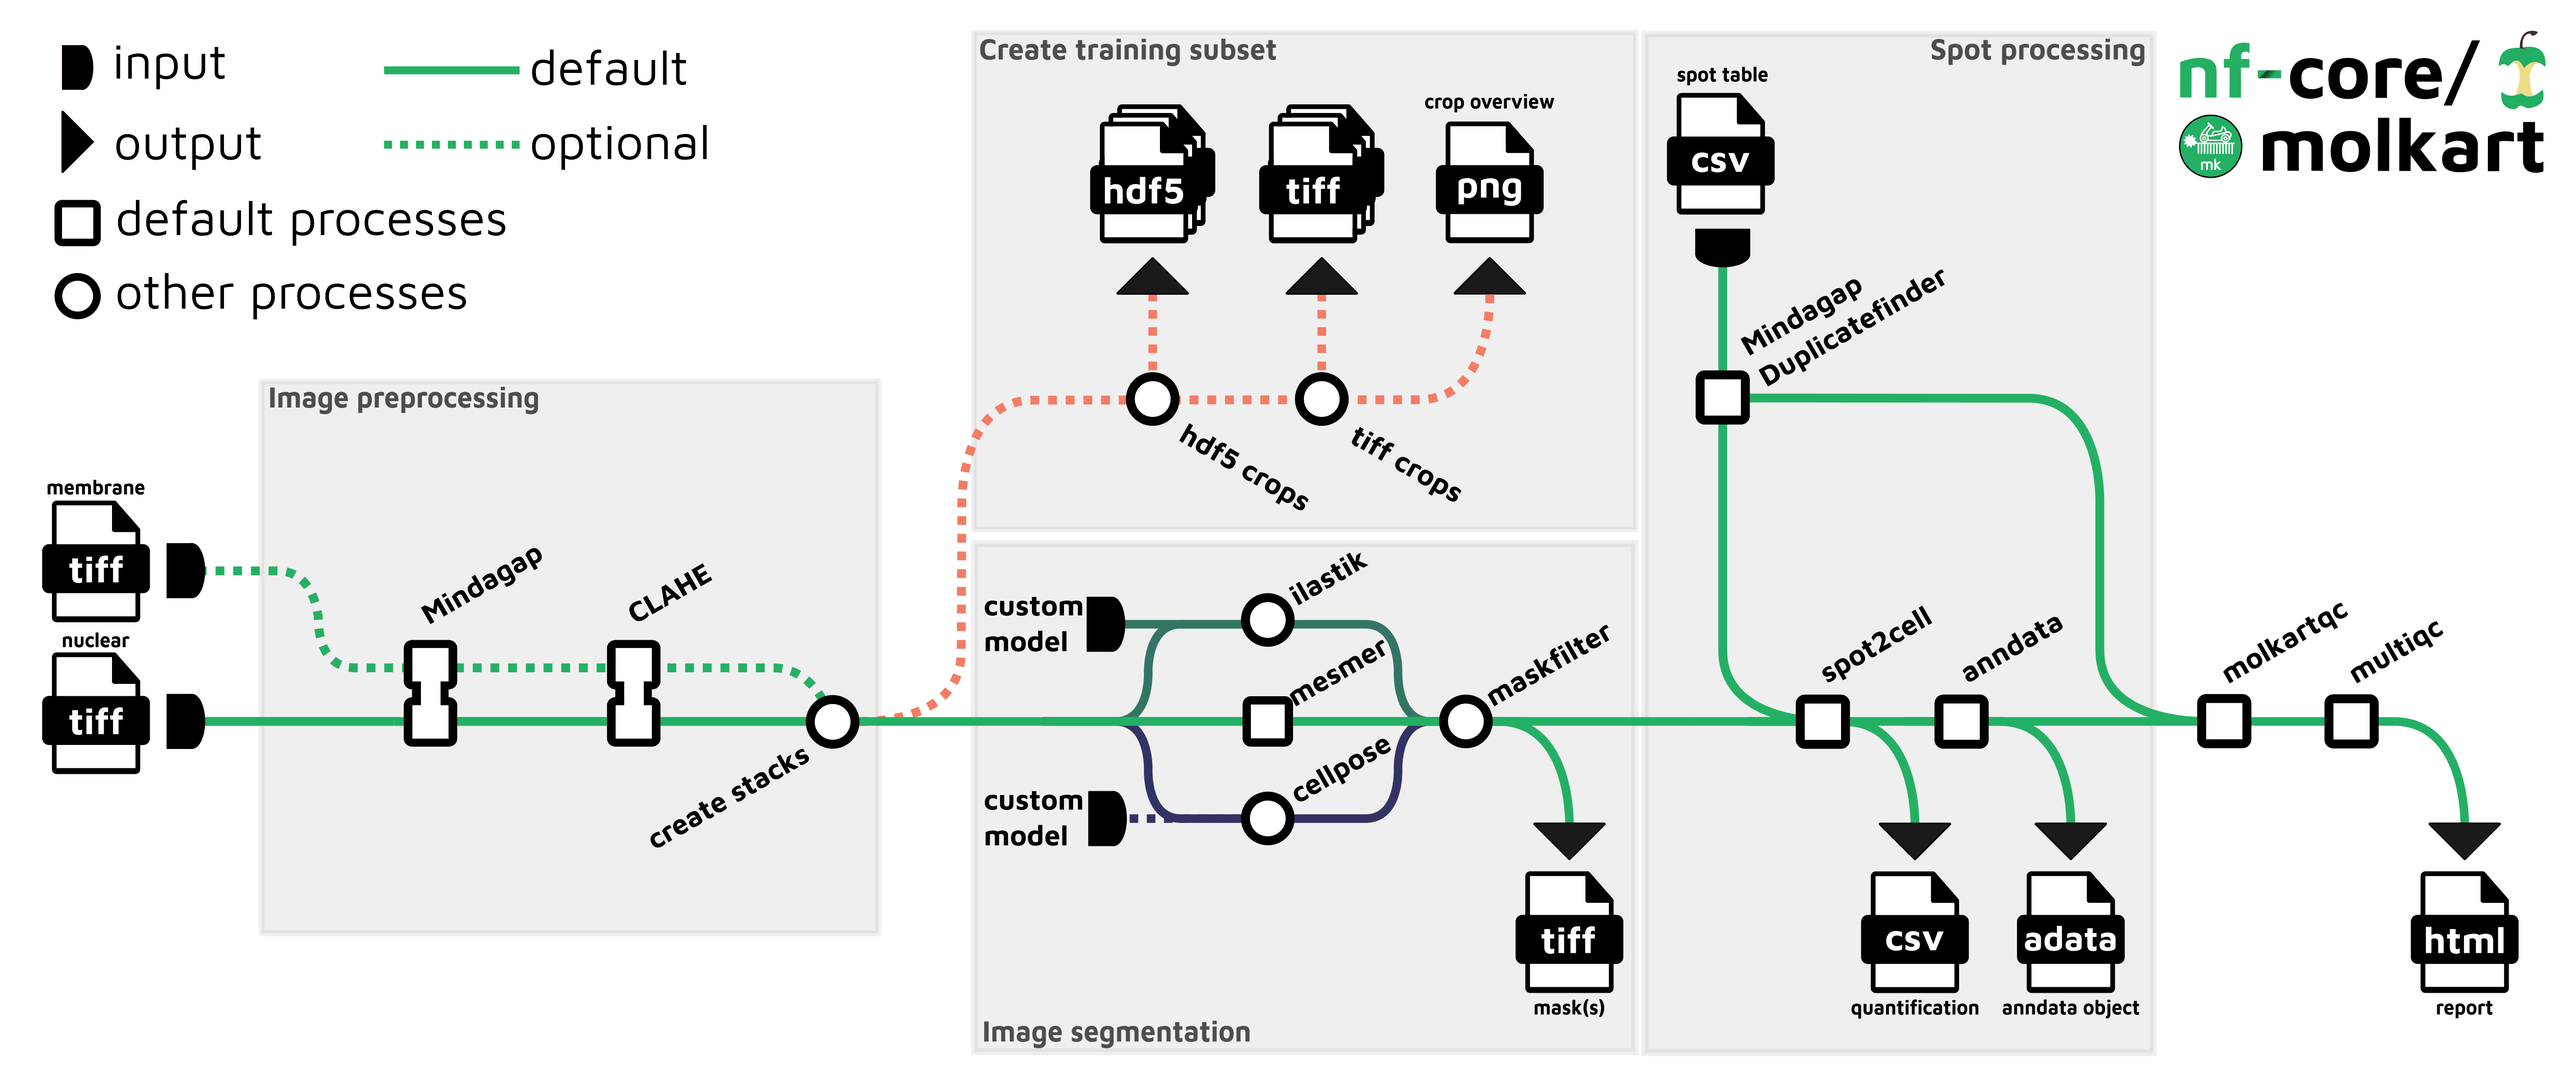
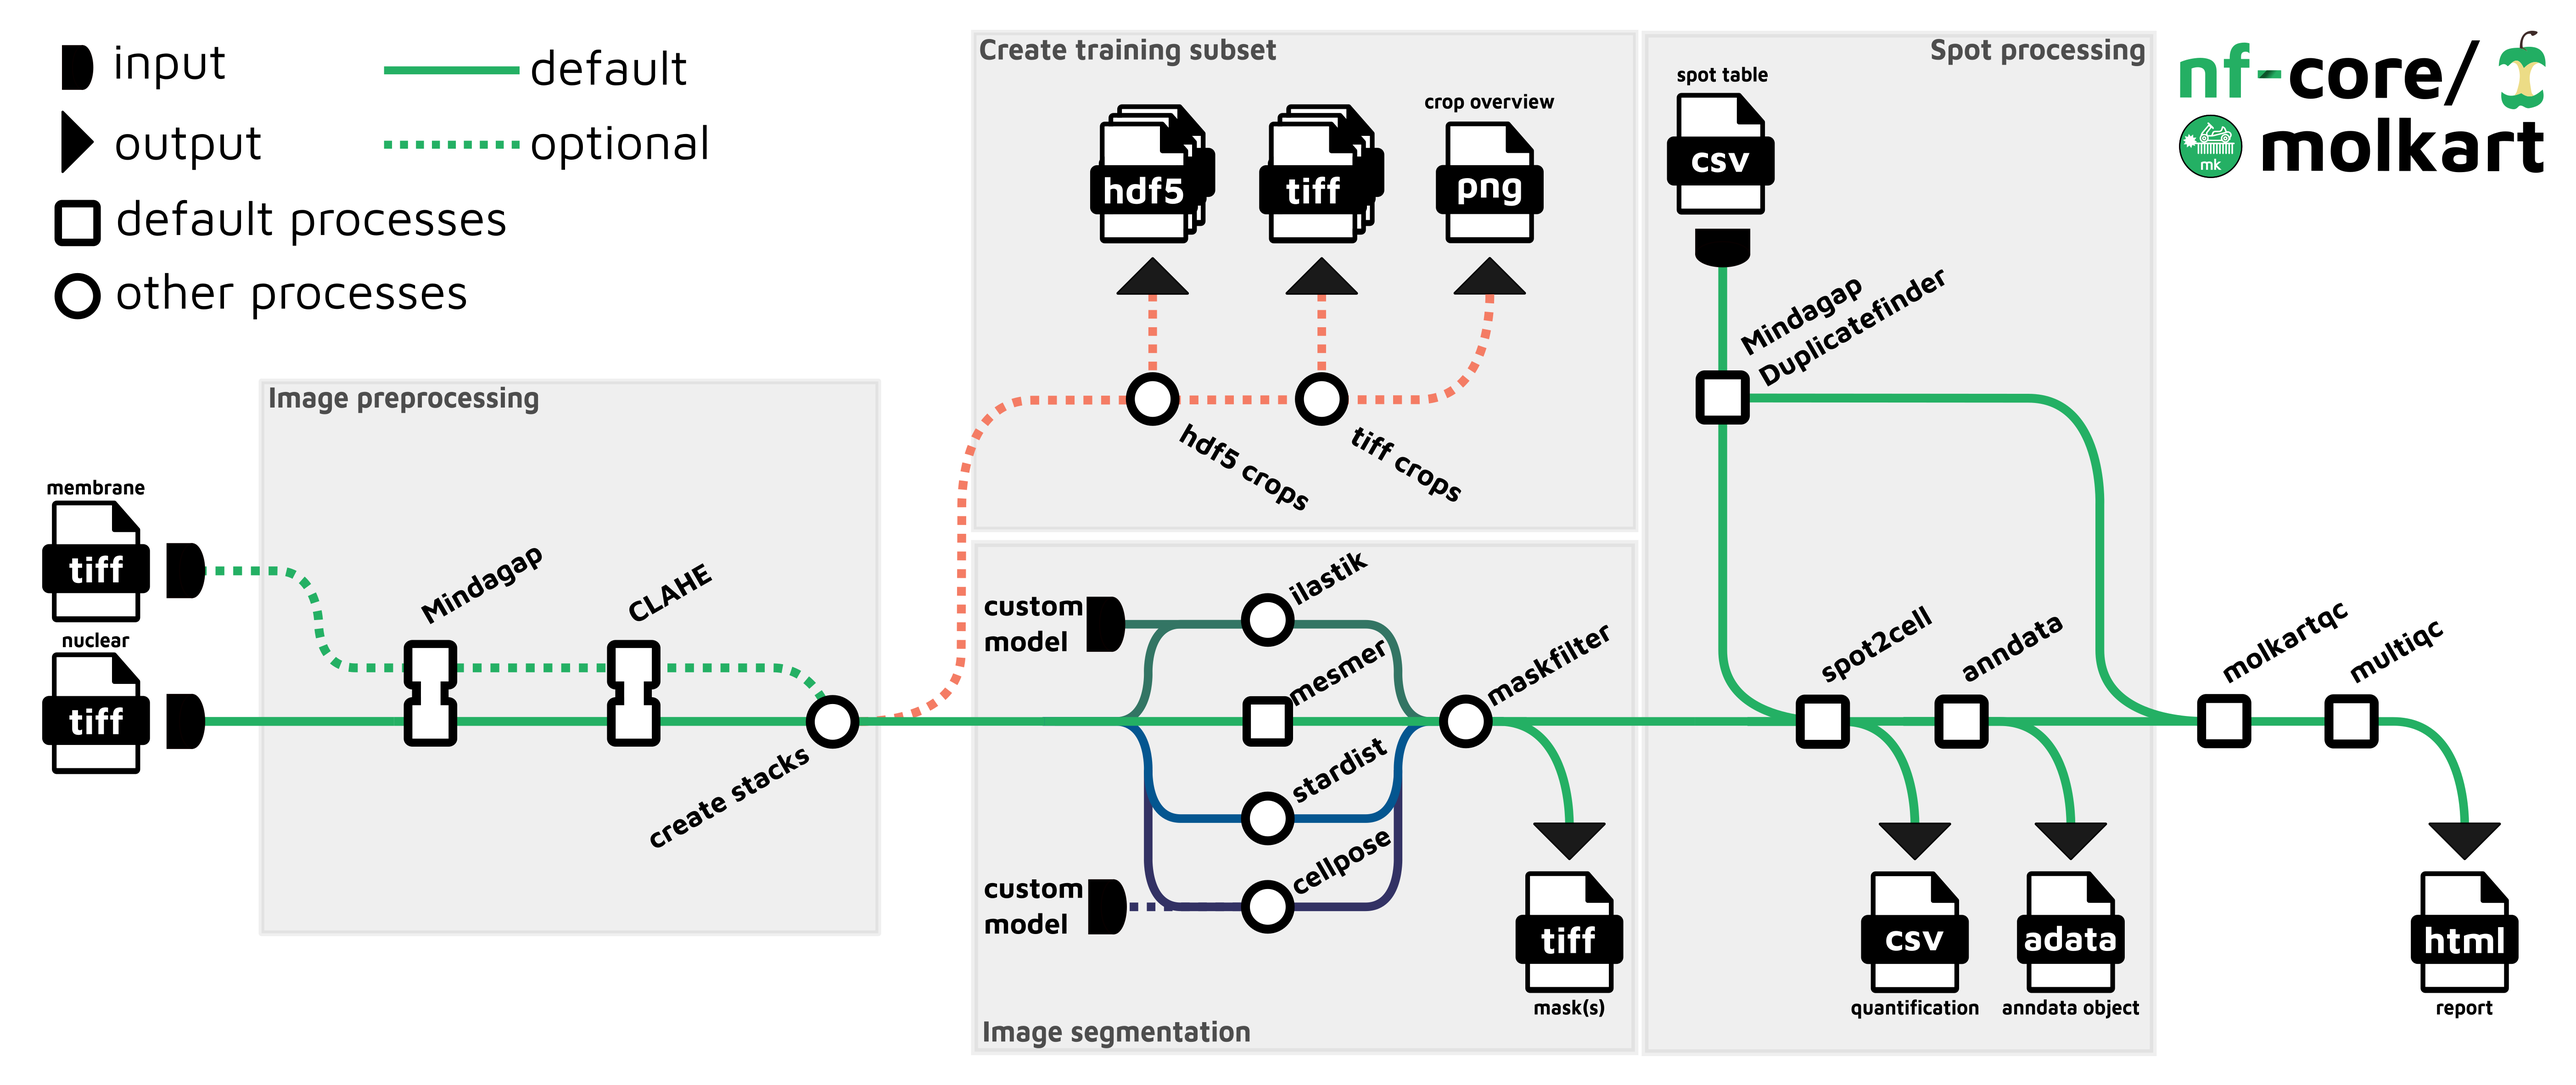
documentation

Changed region(s): [[0.3742, 0.6794, 0.5613, 0.8646]]

diff --git a/docs/usage.md b/docs/usage.md
@@ -28,12 +28,12 @@ SAMPLE3,SAMPLE3.nucleus.tiff,SAMPLE3.spots.txt,SAMPLE3.membrane.tiff
 SAMPLE4,SAMPLE4.nucleus.tiff,SAMPLE4.spots.txt,SAMPLE4.membrane.tiff
 ```
 
-| Column           | Description                                                                                                                                                  |
-| ---------------- | ------------------------------------------------------------------------------------------------------------------------------------------------------------ |
-| `sample`         | Custom sample name. If multiple field-of-views (FOVs) are being processed for the same sample, their sample tags must be different. Must not contain spaces. |
-| `nuclear_image`  | Full path to nuclear image (DAPI, Hoechst).                                                                                                                  |
-| `spot_table`     | Full path to tsv or txt spot table provided by Resolve. Separator must be `\t`.                                                                              |
-| `membrane_image` | Full path to membrane image (e.g WGA) or second channel to help with segmentation (optional).                                                                |
+| Column           | Description                                                                                                                                                                        |
+| ---------------- | ---------------------------------------------------------------------------------------------------------------------------------------------------------------------------------- |
+| `sample`         | Custom sample name. If multiple field-of-views (FOVs) are being processed for the same sample, their sample tags must be different. Must not contain spaces.                       |
+| `nuclear_image`  | Full path to the nuclear stain image (DAPI, Hoechst). Must be in **TIFF** format (`.tiff` or `.tif`).                                                                              |
+| `spot_table`     | Full path to the **spot table** (`.tsv` or `.txt`). The table must contain **x, y, z position columns and a gene column**, with **no header** and **tab-separated values (`\t`)**. |
+| `membrane_image` | Full path to the membrane stain image (e.g., WGA) or a second channel to assist with segmentation. Must be in **TIFF** format (`.tiff` or `.tif`). _(Optional)_                    |
 
 An [example samplesheet](../assets/samplesheet.csv) has been provided with the pipeline.
 
@@ -73,14 +73,14 @@ with:
 
 ```yaml
 input: "./samplesheet.csv"
-outdir: "./results/"
+outdir: "./results"
 ```
 
 Additionally, `params.yaml` can contain optional parameters:
 
 ```yaml
 input: "./samplesheet.csv"
-outdir: "./results/"
+outdir: "./results"
 segmentation_method: "mesmer"
 segmentation_min_area: null
 segmentation_max_area: null
@@ -99,6 +99,7 @@ mesmer_image_mpp: 0.138
 mesmer_compartment: "whole-cell"
 ilastik_pixel_project: null
 ilastik_multicut_project: null
+skip_mindagap: false
 mindagap_tilesize: 2144
 mindagap_boxsize: 3
 mindagap_loopnum: 40
@@ -118,21 +119,47 @@ crop_size_y: 400
 
 You can also generate such `YAML`/`JSON` files via [nf-core/launch](https://nf-co.re/launch).
 
-To run the pipeline so that the training subset is created with default values, run:
+### Utilizing the create training subset subworkflow
+
+To run the pipeline so that the training subset is created with default values, run the following:
 
 ```bash
 nextflow run nf-core/molkart --input ./samplesheet.csv --outdir ./results -profile docker --create_training_subset
 ```
 
-:::note
-Stardist segmentation currently only support nuclear segmentation and the additional marker will not be used.
-:::
+The number of crops, fraction of non-zero pixels in the crops, and crop size can be adjusted through parameters.
+This process generates both `TIFF` and `HDF5` files that are compatible with the Cellpose and ilastik GUIs for model training. The trained models can then be fed back into the pipeline for automated processing.
 
-After training a Cellpose 2.0 model, or creating ilastik Pixel Classification and Multicut projects, make sure you match the parameters (e.g cell diameter, flow threshold) in the run to your training and continue the default pipeline run with:
+After training a Cellpose model, or creating ilastik Pixel Classification and Multicut projects, make sure you match the parameters (e.g cell diameter, flow threshold) in the run to your training and continue the default pipeline run with:
 
 ```bash
 nextflow run nf-core/molkart --input ./samplesheet.csv --outdir ./results -profile docker --segmentation_method cellpose,ilastik --cellpose_custom_model /path/to/model --ilastik_pixel_project /path/to/pixel_classifier.ilp --ilastik_multicut_project /path/to/multicut.ilp
 ```
+
+### Segmentation approaches
+
+The four segmentation approaches (Mesmer, Cellpose, Stardist, ilastik) can be chosen using the `segmentation_method` parameter. If multiple are given (comma-separated, no whitespace), the pipeline will apply them in parallel. For parameter-based model options, please check the original tool's documentation. These can be provided with `mesmer_compartment`, `cellpose_pretrained_model`, and `stardist_model` for Mesmer, Cellpose and Stardist respectively.
+
+:::note
+If a custom Cellpose model is provided via the `cellpose_custom_model` parameter as a path, the `cellpose_pretrained_model` parameter is ignored.
+:::
+:::note
+Stardist segmentation currently only supports nuclear segmentation and the additional marker will not be used.
+:::
+:::note
+Stardist is the only tool that natively supports tiling. Make sure to adapt requested resources based on the size of the input image(s).
+:::
+:::note
+ilastik segmentation requires user-provided Pixel Classification and Multicut project files. The user must ensure that the training files have the same axes as the segmentation input files to ensure compatibility.
+:::
+
+### Skipping processes
+
+By default, both Mindagap and CLAHE are run, however both can be skipped when running the pipeline using the `skip_mindagap` and `skip_clahe` parameters.
+
+Local contrast enhancement might not be needed for every dataset and parameters should be chosen carefully depending on the data.
+
+Similarly, if the data does not have the grid pattern characteristic for Molecular Cartography data, Mindagap can be skipped (e.g. for Merscope data) meaning both grid-filling and Duplicatefinder would not be applied to the data.
 
 ### Updating the pipeline
 

diff --git a/docs/output.md b/docs/output.md
@@ -78,7 +78,7 @@ Create stack is a local module used to merge images into a stack as preparation 
   - `filtered_masks/` - `*_method_filtered.tif`: Segmentation masks filtered based on provided area limits.
   </details>
 
-[Cellpose](https://www.cellpose.org) is a segmentation tool that provides pretrained models as well as additional human-in-the loop training. If additional training is performed, the envisioned way of doing it is creating the training subset (`tiff`), and training the model in the [Cellpose GUI](https://cellpose.readthedocs.io/en/latest/gui.html) on the subset, then giving the trained model as an argument within the pipeline to complete the pipeline run.
+[Cellpose](https://www.cellpose.org) is a segmentation tool that provides pretrained models as well as additional human-in-the loop training. If additional training is performed, the envisioned way of doing it is creating the training subset (`TIFF`), and training the model in the [Cellpose GUI](https://cellpose.readthedocs.io/en/latest/gui.html) on the subset, then giving the trained model as an argument within the pipeline to complete the pipeline run.
 
 [ilastik](https://www.ilastik.org) is an interactive learning and segmentation toolkit, with its application here envisioned as - create training subset (`hdf5`), create Pixel Classifier and Boundary prediction with Multicut projects with specified parameters. Within Molkart, the project files can be given and batch processing would be applied on the full images.
 
@@ -147,13 +147,13 @@ Results generated by MultiQC collate pipeline QC from supported tools e.g. FastQ
 
 - `training_subset/`
   - `hdf5/`
-    - `*_crop[0-9]+.hdf5`: `hdf5` crops for training Pixel classification and Multicut models with ilastik for segmentation.
+    - `*_crop[0-9]+.hdf5`: `HDF5` crops for training Pixel classification and Multicut models with ilastik for segmentation.
   - `tiff/`
-    - `*_crop[0-9]+.tiff`: `tiff` crops for training Cellpose to create a custom segmentation model.
+    - `*_crop[0-9]+.tiff`: `TIFF` crops for training Cellpose to create a custom segmentation model.
 
 </details>
 
-Create training subset is an optional group of modules that create crops in `hdf5` and `tiff` formats, as well as provide the crop overview for reusability.
+Create training subset is an optional group of modules that create crops in `HDF5` and `TIFF` formats, as well as provide the crop overview for reusability.
 
 ### Pipeline information
 
